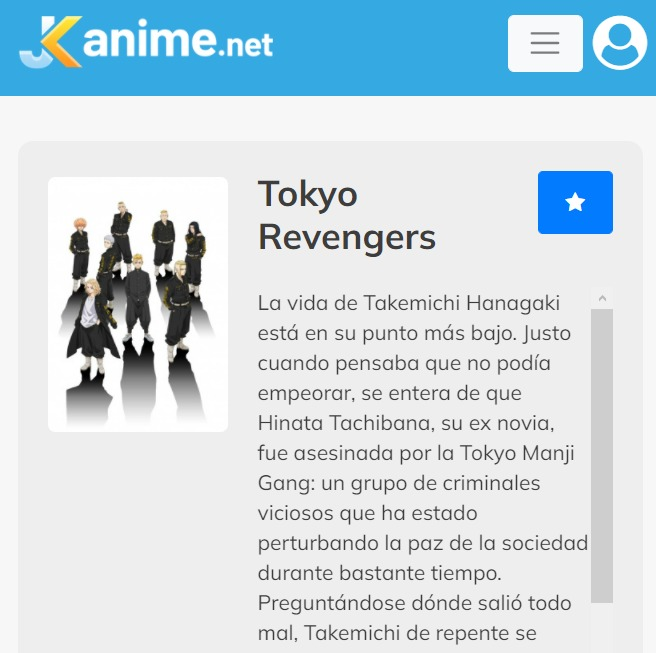
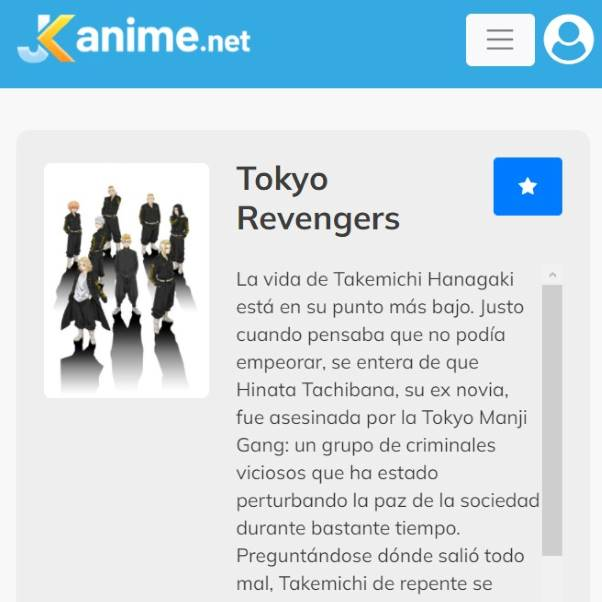
tercer avance
Aún no sé hacer los bordes de las cards, pero ya pude usar el ícono de awesomefonts en el botón de subir página. También lo reorganicé para que se viera mejor, y puse el link de productos a las card

diff --git a/15-Taller1_LandingPage/Isaac Montaño Landing Page/html.html b/15-Taller1_LandingPage/Isaac Montaño Landing Page/html.html
@@ -6,10 +6,11 @@
     <meta name="viewport" content="width=device-width, initial-scale=1.0">
     <title>Tokyo Revengers -Kazura Collins-</title>
     <link rel="stylesheet" href="yea.css">
+    <script src="https://kit.fontawesome.com/425b6c2534.js" crossorigin="anonymous"></script>
 </head>
 <ul class="menu">
     <li><a href="#">Inicio</a></li>
-    <li><a href="#">Productos</a></li>
+    <li><a href="#card1">Productos</a></li>
     <li><a href="https://aminoapps.com/c/anime-es/page/blog/tokyowan-revengers-es-una-obra-sobresaliente-y-te-explico-porque/g0KS_6uVKw3znrVZJXNjoBewzEVv2B6" target="_blank">
         Más información de Tokyo Revengers</a></li>
     <li><a href="https://es.wikipedia.org/wiki/Tokyo_Revengers#:~:text=Tokyo%20Revengers%20(東京卍リベンジャー,Japón%20en%20julio%20de%202021." target="_blank">Wikipedia Tokyo Revengers</a></li>
@@ -26,25 +27,7 @@
     </section>
    
 <div class= "Cards">
-    <div class="card1">
-        <a href="https://www.youtube.com/watch?v=8SZt251bcDA" target="_blank"><img src="PortadaYT.jpeg" alt="Opening anime TR" style="width:100%"></a>
-        <div class="container">
-          <p class="Subtitulos"><b>Cry Baby </b></p> 
-          <p class="textoN">Escucha la obra maestra que es el opening de Tokyo Revengers con subtítulos en español. Ciertamente, una canción
-              digna de ser escuchada 24 veces a lo largo de la serie, o incluso en loop por separado y cantar a todo pulmón con tus amigos.</p> 
-        </div>
-    </div>
-    
-    <div class="card2">
-        <a href="https://jkanime.net/tokyo-revengers/" target="_blank"><img src="TokyoAnimeJK.jpeg" alt="Ver Tokyo Revengers JKAnime" style="width:100%"></a>
-        <div class="container">
-            <p class="Subtitulos"><b>¡Mira la serie <i>"totalmente legal"</i> aquí! </b></p> 
-          <p class="textoN">Por supuesto, también tienes la alternativa legal y autorizada de verlo en <a href= "https://www.crunchyroll.com/es/tokyo-revengers" target="_blank">Crunchyroll</a>, pero tendrías que aguantar
-              más de 5 minutos de anuncios, o pagar por el servicio de streaming que, al ser una serie finalizada, realmente no vale la pena.
-          </p> 
-        </div>
-    </div>
-    <div class="card3">
+    <div id="card1" class="card1">
         <a href="https://mangalandia.com/manga/24883/" target="_blank"><img src="TokyoManga.jpeg" 
             alt="Leer Manga Tokyo Revengers online" style="width:100%"></a>
         <div class="container">
@@ -56,11 +39,31 @@
           </p> 
         </div>
     </div>
+    
+    <div class="card2">
+        <a href="https://www.youtube.com/watch?v=8SZt251bcDA" target="_blank"><img src="PortadaYT.jpeg" alt="Opening anime TR" style="width:100%"></a>
+        <div class="container">
+          <p class="Subtitulos"><b>-Escucha el opening Cry Baby-</b></p> 
+          <p class="textoN">Escucha la obra maestra que es el opening de Tokyo Revengers con subtítulos en español. Ciertamente, una canción
+              digna de ser escuchada 24 veces a lo largo de la serie, o incluso en loop por separado y cantar a todo pulmón con tus amigos.</p> 
+        </div>
+    </div>
+
+    <div class="card3">
+        <a href="https://jkanime.net/tokyo-revengers/" target="_blank"><img src="TokyoAnimeJK.jpeg" alt="Ver Tokyo Revengers JKAnime" style="width:100%"></a>
+        <div class="container">
+            <p class="Subtitulos"><b>¡Mira la serie <i>"totalmente legal"</i> aquí! </b></p> 
+          <p class="textoN">Por supuesto, también tienes la alternativa legal y autorizada de verlo en <a href= "https://www.crunchyroll.com/es/tokyo-revengers" target="_blank">Crunchyroll</a>, pero tendrías que aguantar
+              más de 5 minutos de anuncios, o pagar por el servicio de streaming que, al ser una serie finalizada, realmente no vale la pena.
+          </p> 
+        </div>
+    </div>
+       
 </div>
 
     <div class="go-top-container">
         <div class="go-top-button">
-          <i class="fas fa-chevron-up"></i>
+            <i class="fas fa-chevron-up"></i>
         </div>
       </div>
 </body>

diff --git a/15-Taller1_LandingPage/Isaac Montaño Landing Page/yea.css b/15-Taller1_LandingPage/Isaac Montaño Landing Page/yea.css
@@ -47,7 +47,7 @@
 
 .Subtitulos{
     font-family: LeagueGothic;
-    font-size: 300%;
+    font-size: 200%;
     color: black;
 }
 
@@ -93,8 +93,8 @@ html, body {
 
 .go-top-container {
     position: fixed;
-    bottom: 4rem;
-    right: 4rem;
+    bottom: 1rem;
+    right: 2rem;
     width: 6.6rem;
     height: 6.6rem;
     z-index: -1;
@@ -130,8 +130,8 @@ html, body {
  
 .show .go-top-button {
     animation: popup 0.3s ease-in-out;
-    width: 6.6rem;
-    height: 6.6rem;
+    width: 5rem;
+    height: 5rem;
     z-index: 11;
 }
  
@@ -162,7 +162,8 @@ html, body {
 	background: #092327;
 	margin: auto;
     position: fixed;
-    align-items: center;
+    align-content: center;
+    width: 100%;
 }
 
 .menu li a{
@@ -180,3 +181,5 @@ html, body {
 .menu li a:hover{
 	background: #ef8354;
 }
+
+/*pequeña prueba*/

diff --git a/15-Taller1_LandingPage/Isaac Montaño Landing Page/java.js b/15-Taller1_LandingPage/Isaac Montaño Landing Page/java.js
@@ -14,3 +14,5 @@ window.onscroll = function(){
       behavior: 'smooth'
     });
   });
+
+  
